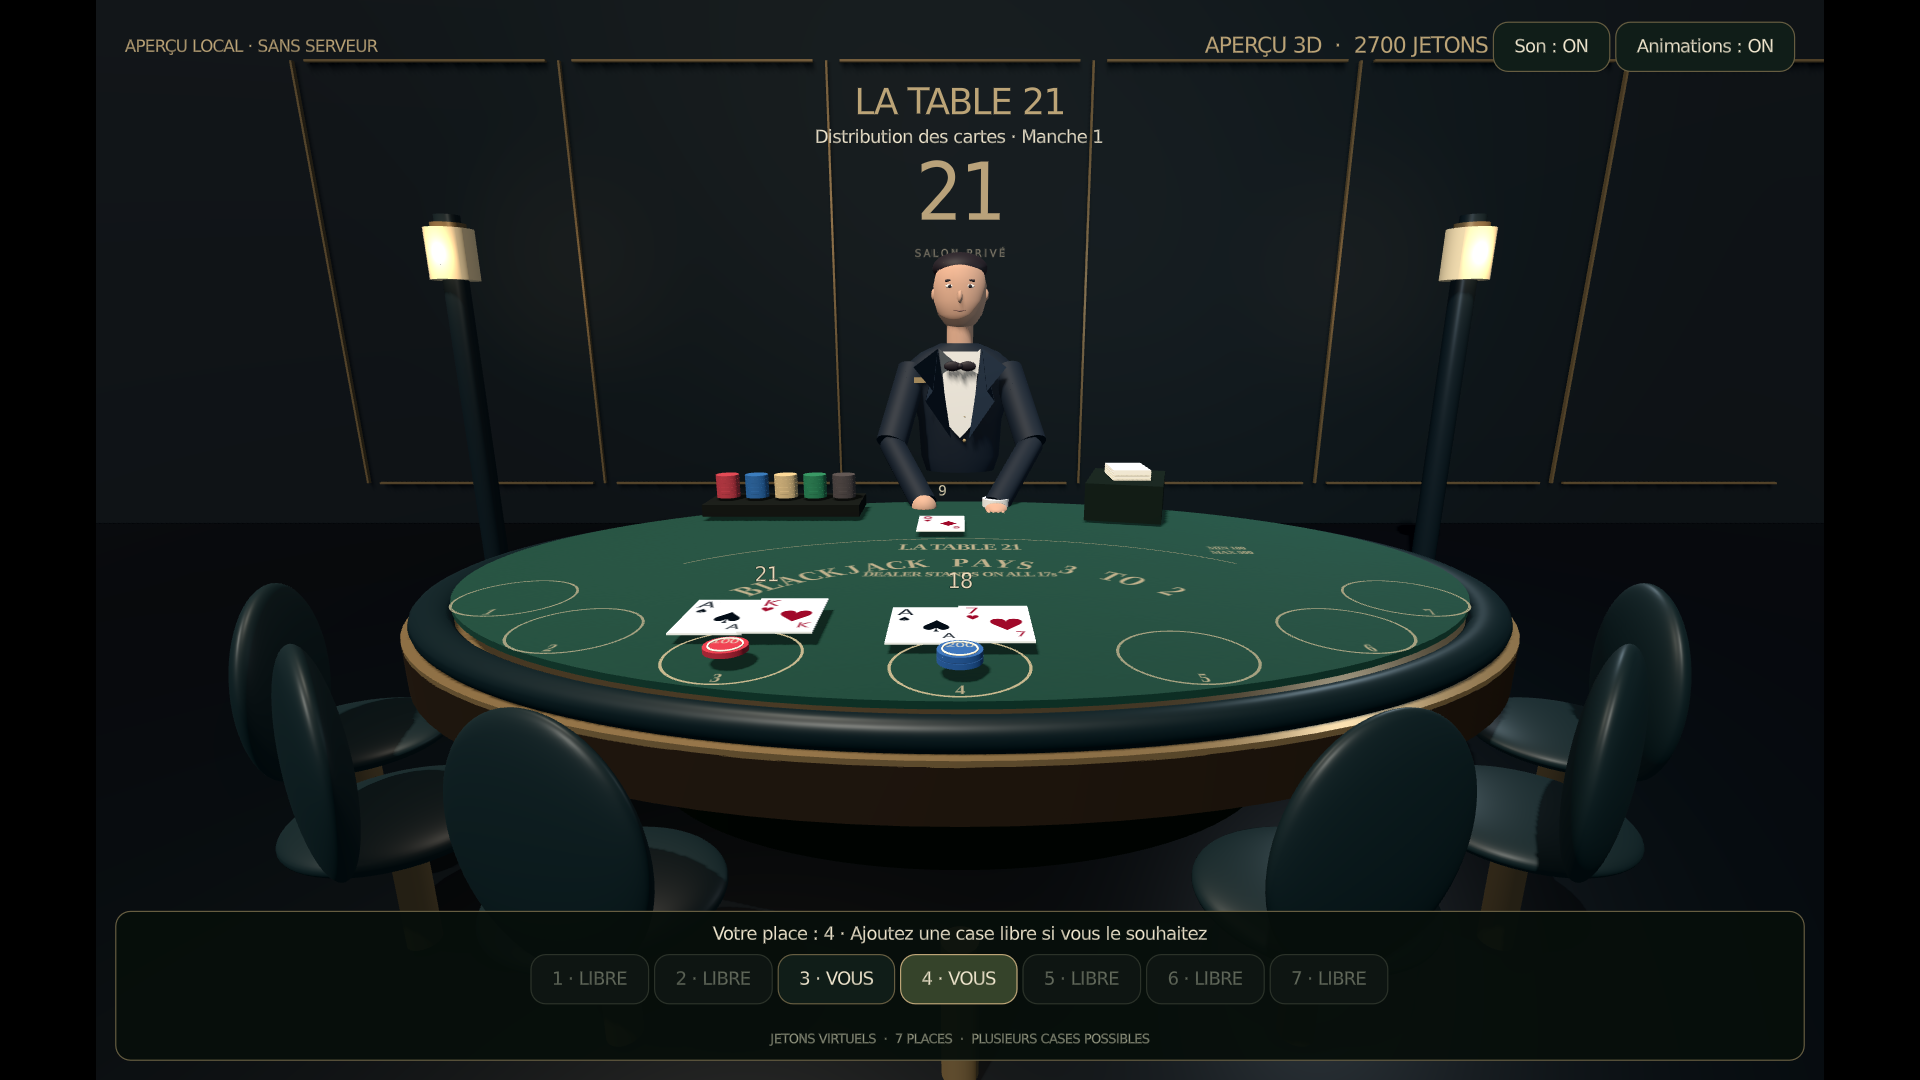
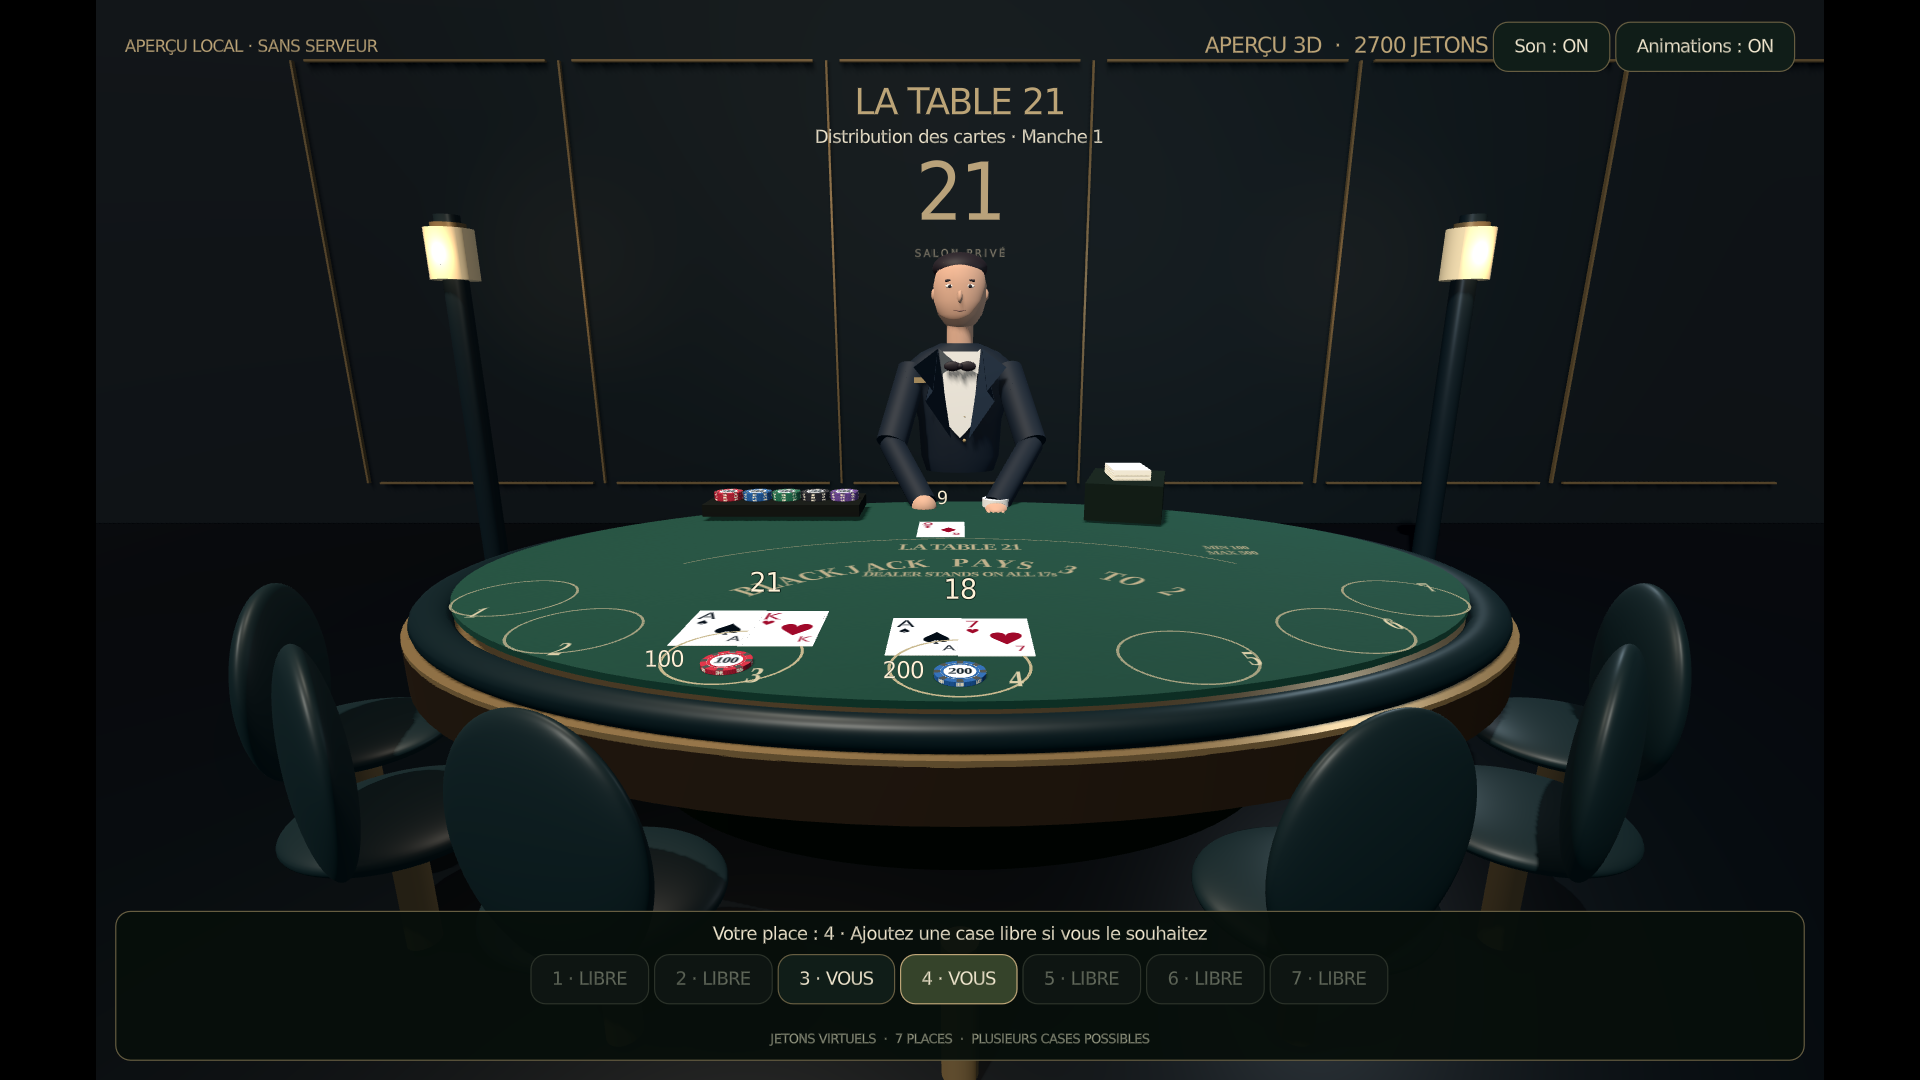
Ground casino chips on the felt and improve number readability

diff --git a/README.md b/README.md
@@ -28,6 +28,7 @@ godot --path godot -- --server=ws://127.0.0.1:3000 --pseudo=Mickael
 - Caméra basse face à la table, déplacement animé vers une place confirmée par le serveur. Cliquer sur un cercle du tapis ou sur un bouton de place pour s’asseoir.
 - Places libres, personnelles et occupées distinctes. La prise d’une place occupée est rejetée côté serveur.
 - Possibilité de réserver plusieurs cases libres ; sélectionner une de ses cases dans la barre, puis choisir sa mise. Chaque case a sa propre main, sa pile de jetons et son résultat.
+- Jetons en argile satinée avec huit repères ivoire, tranches striées et médaillon central. Les piles reposent sur le tapis, leurs valeurs additionnées correspondent à la mise et un petit montant orienté vers le joueur reste lisible.
 - Cartes fines et rapprochées, valeurs et symboles contrastés, total discret et lisible juste au-dessus de chaque main (indépendant pour les cases et mains séparées). Le total du croupier exclut toute carte encore cachée.
 - Cartes 3D distribuées depuis les mains du croupier, jetons qui se posent, mouvement du bras synchronisé aux distributions, respiration et sons synthétisés.
 - Tirer, rester, doubler et séparer selon les possibilités de la main active, avec délai de décision et résultats du serveur.
@@ -69,6 +70,7 @@ npm run build
 npm run test:godot
 godot --headless --path godot --script tests/scene_test.gd
 godot --headless --path godot --script tests/cards_test.gd
+godot --headless --path godot --script tests/chips_test.gd
 ```
 
 `npm run build` exporte Godot, puis construit Next.js. Le pipeline GitHub installe Godot et ses templates et fournit un artefact `la-table-21-godot-web`. Les fichiers générés dans `public/game/` ne sont pas versionnés. Pour mettre à jour le rendu local après une modification Godot, relancer `npm run game:export`.
